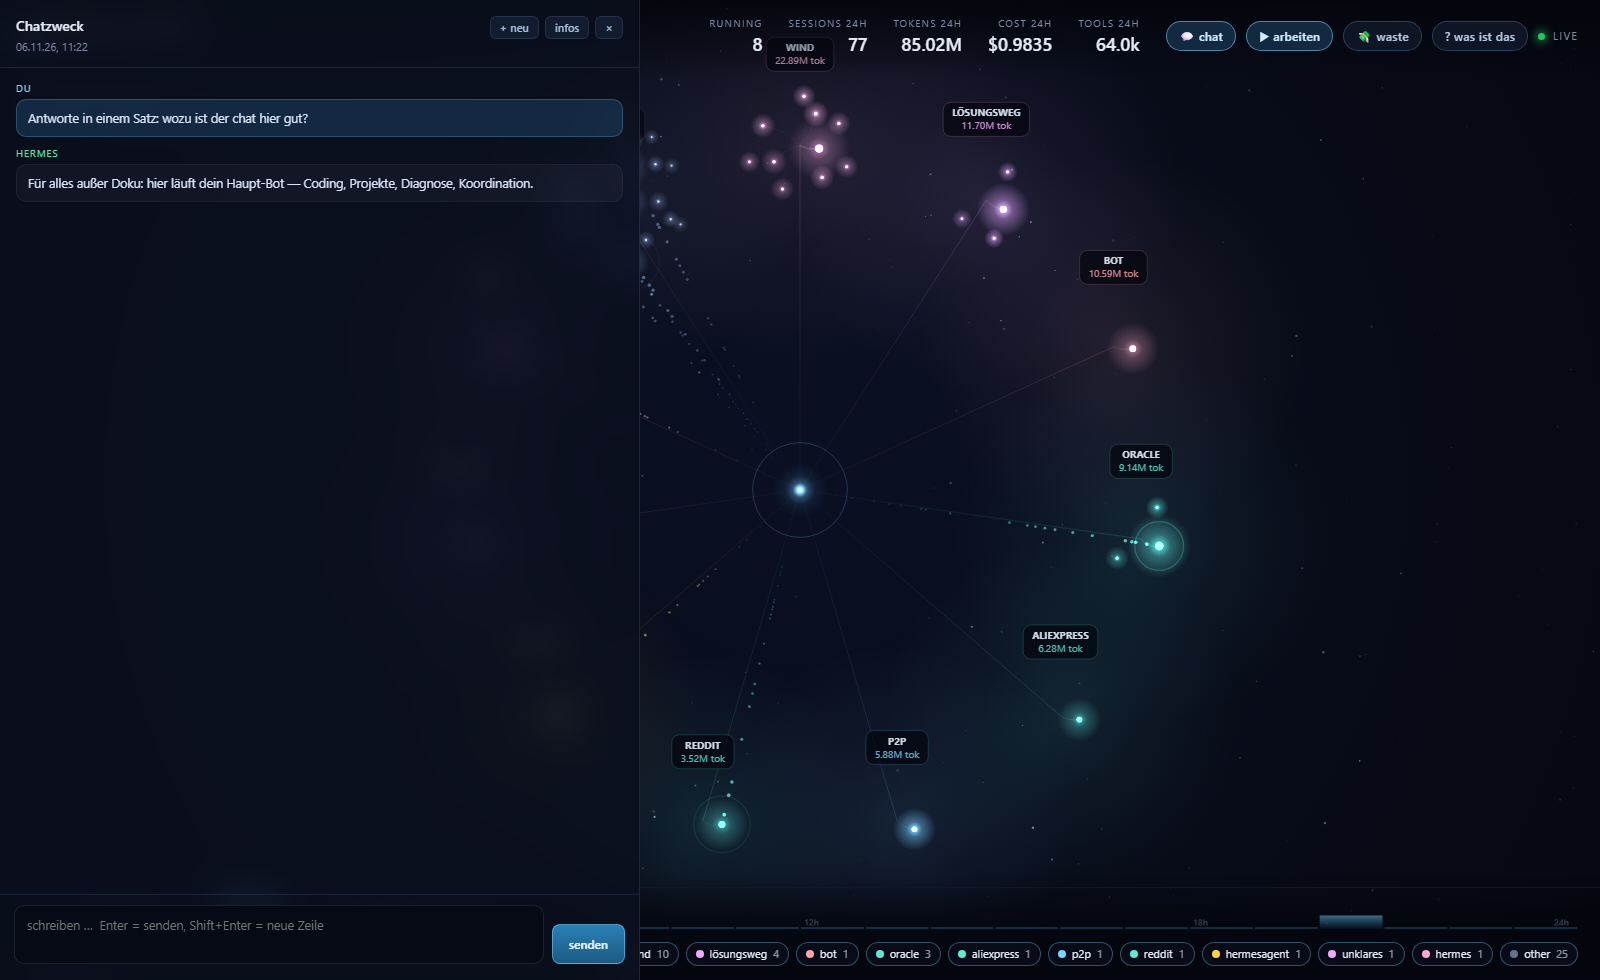
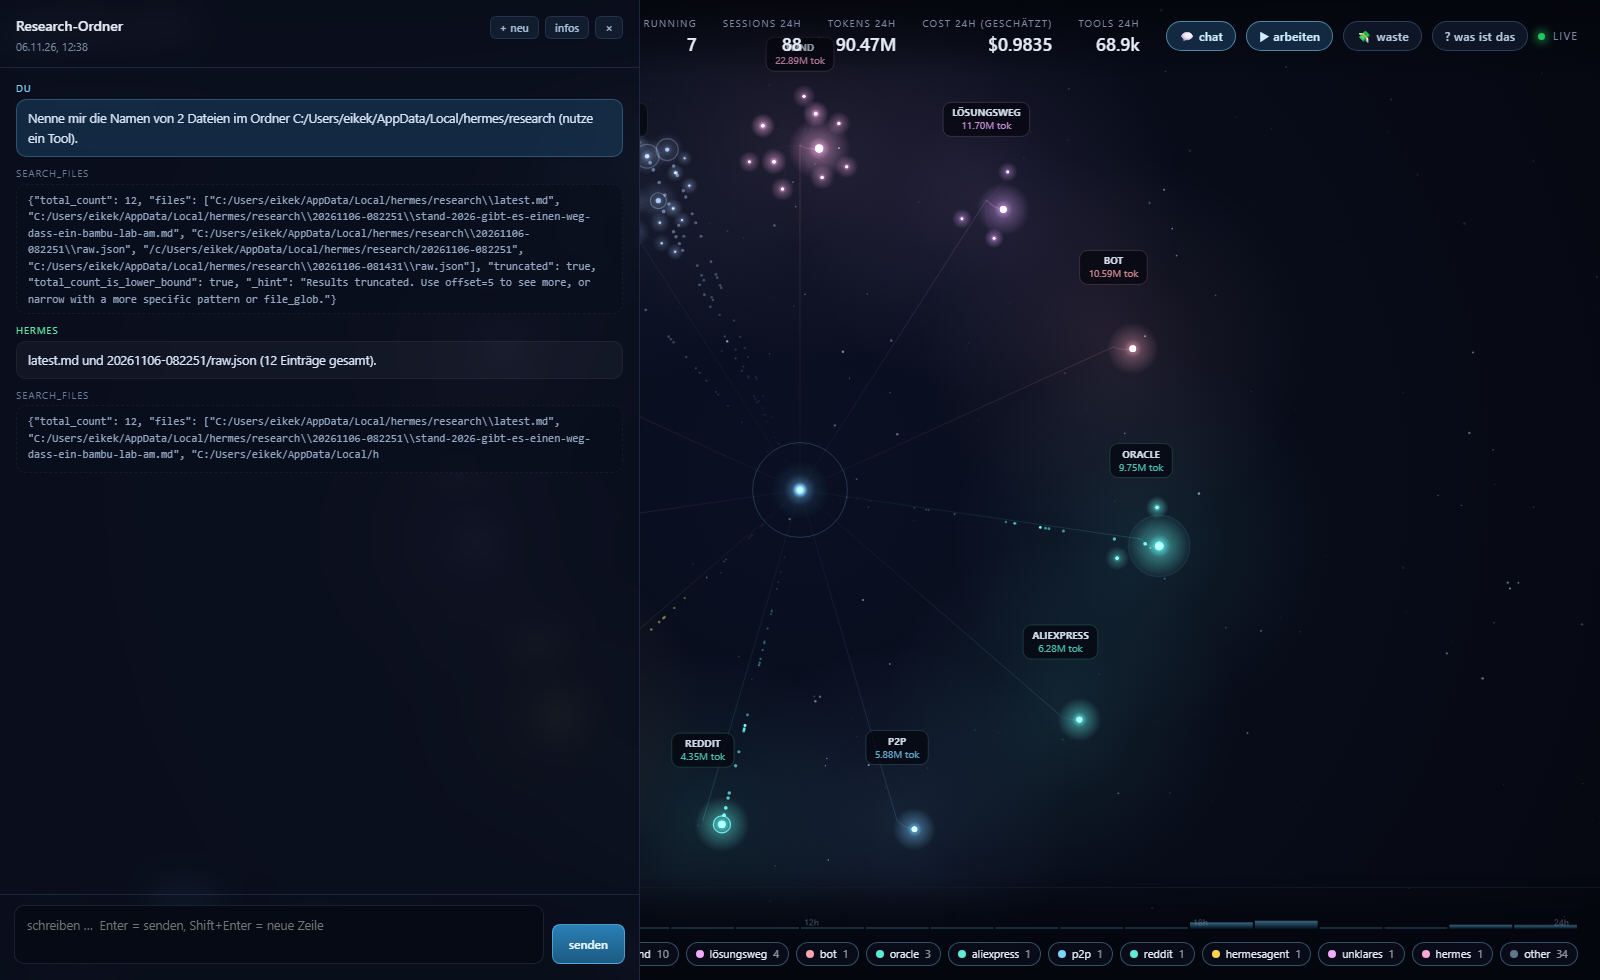
feat: live what-happens view in chat + explain cost

diff --git a/mission/web/app.js b/mission/web/app.js
@@ -829,7 +829,7 @@ document.addEventListener('DOMContentLoaded', () => {
 });
 
 /* ---------- chat: hier wird gearbeitet, nicht nur geschaut --------------- */
-const chat = { id: null, lastId: 0, timer: null, job: null, busy: false, el: null, seen: new Set(), inflight: false };
+const chat = { id: null, lastId: 0, timer: null, job: null, busy: false, el: null, seen: new Set(), inflight: false, ev: 0, lastTool: '', startedAt: 0 };
 
 function chatEl(id) { return document.getElementById(id); }
 
@@ -884,6 +884,8 @@ function openChat(id) {
   chat.job = null;
   chat.seen = new Set();
   chat.inflight = false;
+  chat.ev = 0;
+  chat.lastTool = '';
   chatEl('chat-body').innerHTML = '<p class="hint">lädt …</p>';
   document.getElementById('chat').classList.add('show');
   document.getElementById('work').classList.remove('show');
@@ -930,6 +932,69 @@ function setChatBusy(on) {
   chatEl('chat-stop').hidden = !on;
 }
 
+function chatPending(on, text) {
+  let row = document.getElementById('chat-pending');
+  if (!on) { if (row) row.remove(); return; }
+  if (!row) {
+    chatEl('chat-body').insertAdjacentHTML('beforeend',
+      '<div class="m assistant pending" id="chat-pending"><div class="who">hermes</div><div class="txt"><span class="dot"></span><span id="pending-text">läuft …</span></div></div>');
+    row = document.getElementById('chat-pending');
+  }
+  if (text) document.getElementById('pending-text').textContent = text;
+  chatScroll(true);
+}
+
+function chatElapsed() {
+  if (!chat.startedAt) return '';
+  const sec = Math.max(0, Math.round((Date.now() - chat.startedAt) / 1000));
+  return sec < 60 ? sec + 's' : Math.floor(sec / 60) + 'm ' + (sec % 60) + 's';
+}
+
+function chatEvents() {
+  if (!chat.id) return;
+  fetch(`/api/events?since=${chat.ev}`).then((r) => r.json()).then((d) => {
+    const rows = (d.events || []).filter((e) => e.session_id === chat.id).reverse();
+    if (!rows.length) return;
+    for (const e of rows) {
+      chat.ev = Math.max(chat.ev, e.id);
+      if (!e.tool_name) continue;
+      chat.lastTool = e.tool_name;
+      chatEl('chat-body').insertAdjacentHTML('beforeend',
+        `<div class="m tool"><div class="who">${escapeHtml(e.tool_name)}</div><div class="txt">${escapeHtml((e.snippet || '').slice(0, 260))}</div></div>`);
+      chatScroll(true);
+    }
+    if (chat.busy) chatPending(true, `läuft ${chatElapsed()} · zuletzt ${chat.lastTool || 'denkt'} …`);
+  }).catch(() => {});
+}
+
+function chatWatch() {
+  if (chat.timer) clearInterval(chat.timer);
+  chat.timer = setInterval(() => {
+    chatPoll();
+    chatEvents();
+    if (chat.busy) chatPending(true, `läuft ${chatElapsed()} · zuletzt ${chat.lastTool || 'denkt'} …`);
+    if (chat.busy && chat.job) {
+      fetch('/api/jobs').then((r) => r.json()).then((d) => {
+        const job = (d.jobs || []).find((j) => j.id === chat.job);
+        if (!job) return;
+        if (!chat.id && job.session) {
+          chat.id = job.session;
+          chat.seen = new Set();
+          chat.lastId = 0;
+          chatEl('chat-body').innerHTML = '';
+        }
+        if (!job.alive) {
+          setChatBusy(false);
+          chatTimeout && clearTimeout(chatTimeout);
+          chatPending(false);
+          chatPoll();
+          chatEvents();
+        }
+      }).catch(() => {});
+    }
+  }, 1200);
+}
+
 async function sendChat() {
   const input = chatEl('chat-in');
   const text = input.value.trim();
@@ -938,45 +1003,24 @@ async function sendChat() {
   chatEl('chat-body').insertAdjacentHTML('beforeend',
     `<div class="m user"><div class="who">du</div><div class="txt">${escapeHtml(text)}</div></div>`);
   chatScroll(true);
+  chat.busy = true;
+  chat.lastTool = '';
+  chat.startedAt = Date.now();
+  if (!chat.timer) chatWatch();
   setChatBusy(true);
+  chatPending(true, 'startet …');
   const res = await workPost('/api/chat', { prompt: text, session: chat.id || null });
   if (res.error) {
-    setChatBusy(false);
+    setChatBusy(false); chatPending(false);
     chatEl('chat-sub').textContent = 'fehler: ' + res.error;
     return;
   }
   chat.job = res.job ? res.job.id : null;
-  if (!chat.id) {
-    // erster Satz: warten bis der Lauf seine Session angelegt hat, dann andocken
-    let tries = 0;
-    const bind = setInterval(() => {
-      tries += 1;
-      fetch('/api/jobs').then((r) => r.json()).then((d) => {
-        const job = (d.jobs || []).find((j) => j.id === chat.job);
-        if (job && job.session) {
-          clearInterval(bind);
-          chat.id = job.session;
-          chat.lastId = 0;
-          chat.seen = new Set();
-          chatEl('chat-body').innerHTML = '';
-          chatPoll();
-          chatScroll(true);
-          if (!chat.timer) chat.timer = setInterval(chatPoll, 1300);
-        } else if (tries > 40) { clearInterval(bind); }
-      }).catch(() => {});
-    }, 1000);
-  }
-  // fertig? dann busy lösen
-  const wait = setInterval(() => {
-    fetch('/api/jobs').then((r) => r.json()).then((d) => {
-      const job = (d.jobs || []).find((j) => j.id === chat.job);
-      if (!job) return;
-      if (!job.alive) { clearInterval(wait); setChatBusy(false); chatPoll(); }
-      else { if (job.session && !chat.id) { chat.id = job.session; } chatPoll(); }
-    }).catch(() => {});
-  }, 2000);
+  chatPending(true, 'läuft · hermes startet …');
+  chatWatch();
 }
 
+let chatTimeout = null;
 document.addEventListener('DOMContentLoaded', () => {
   chatEl('chat-send').addEventListener('click', sendChat);
   chatEl('chat-in').addEventListener('keydown', (e) => {

diff --git a/mission/web/index.html b/mission/web/index.html
@@ -22,7 +22,7 @@
     <div class="metric"><span class="k">running</span><span class="v" id="m-running">0</span></div>
     <div class="metric"><span class="k">sessions 24h</span><span class="v" id="m-sessions">0</span></div>
     <div class="metric"><span class="k">tokens 24h</span><span class="v" id="m-tokens">0</span></div>
-    <div class="metric"><span class="k">cost 24h</span><span class="v" id="m-cost">$0</span></div>
+    <div class="metric" title="cost = geschätzte Kosten in US-Dollar. Hermes rechnet beim Lauf: verbrauchte Tokens × hinterlegter Modellpreis. Es ist eine Schätzung, keine Rechnung."><span class="k">cost 24h (geschätzt)</span><span class="v" id="m-cost">$0</span></div>
     <div class="metric"><span class="k">tools 24h</span><span class="v" id="m-tools">0</span></div>
   </div>
   <div class="hud-right">
@@ -49,11 +49,13 @@
     </ul>
     <h2>Was es dir bringt</h2>
     <ul>
-      <li><b>Stern anklicken</b> → was gemacht wurde, welche Tools, was es gekostet hat, und der Befehl zum Weitermachen.</li>
+      <li><b>Stern anklicken</b> oder <b>C</b> → der Chat geht auf: tippen, Enter, du siehst live was der Bot tut (jedes Tool als Zeile), die Antwort wächst mit, <b>stop</b> bricht ab, <b>+ neu</b> startet eine frische Unterhaltung. Das ist der Hauptweg, den Chat-Tab brauchst du dafür nicht.</li>
       <li><b>/ drücken</b> → jede Nachricht durchsuchen, die der Bot je geschrieben hat.</li>
       <li><b>▶ arbeiten</b> → Auftrag eintippen, läuft als echter Lauf im Hintergrund. Du siehst Fortschritt, Ausgabe und kannst ihn stoppen.</li>
       <li><b>💸 waste</b> → Sessions, die viel Geld für wenig Ergebnis verbraucht haben. Das ist der teure Teil.</li>
     </ul>
+    <h2>Was heißt cost?</h2>
+    <p class="sheet-foot" style="margin-bottom:10px">Eine <b>Schätzung in US-Dollar</b>. Hermes rechnet beim Lauf: verbrauchte Tokens × der hinterlegte Preis des Modells, das geantwortet hat (Input und Output getrennt). Es ist keine Rechnung eines Anbieters, sondern die Hausnummer aus der eigenen Datenbank — gut zum Vergleichen, nicht zum Abrechnen. Kleine Läufe kosten cents, große mit vielen Tool-Runden entsprechend mehr.</p>
     <p class="sheet-foot">Alles kommt aus der eigenen Datenbank. Keine Cloud, nichts verlässt den Rechner.</p>
   </div>
 </div>

diff --git a/mission/web/style.css b/mission/web/style.css
@@ -266,3 +266,10 @@ button.mini.danger:hover { border-color: rgba(255, 120, 120, .7); color: #ffdede
 #chat-in:focus { border-color: rgba(125, 211, 252, .6); }
 #chat-send { align-self: flex-end; height: 40px; }
 #chat-send:disabled { opacity: .5; cursor: default; }
+
+#chat-body .m.pending .txt { border-style: dashed; color: #9fb6d2; }
+#chat-body .m.pending .dot {
+  display: inline-block; width: 7px; height: 7px; border-radius: 50%; margin-right: 7px;
+  background: #5ee6a8; animation: pulse-dot 1s infinite ease-in-out; vertical-align: middle;
+}
+@keyframes pulse-dot { 0%,100% { opacity: .25; transform: scale(.8); } 50% { opacity: 1; transform: scale(1.15); } }
